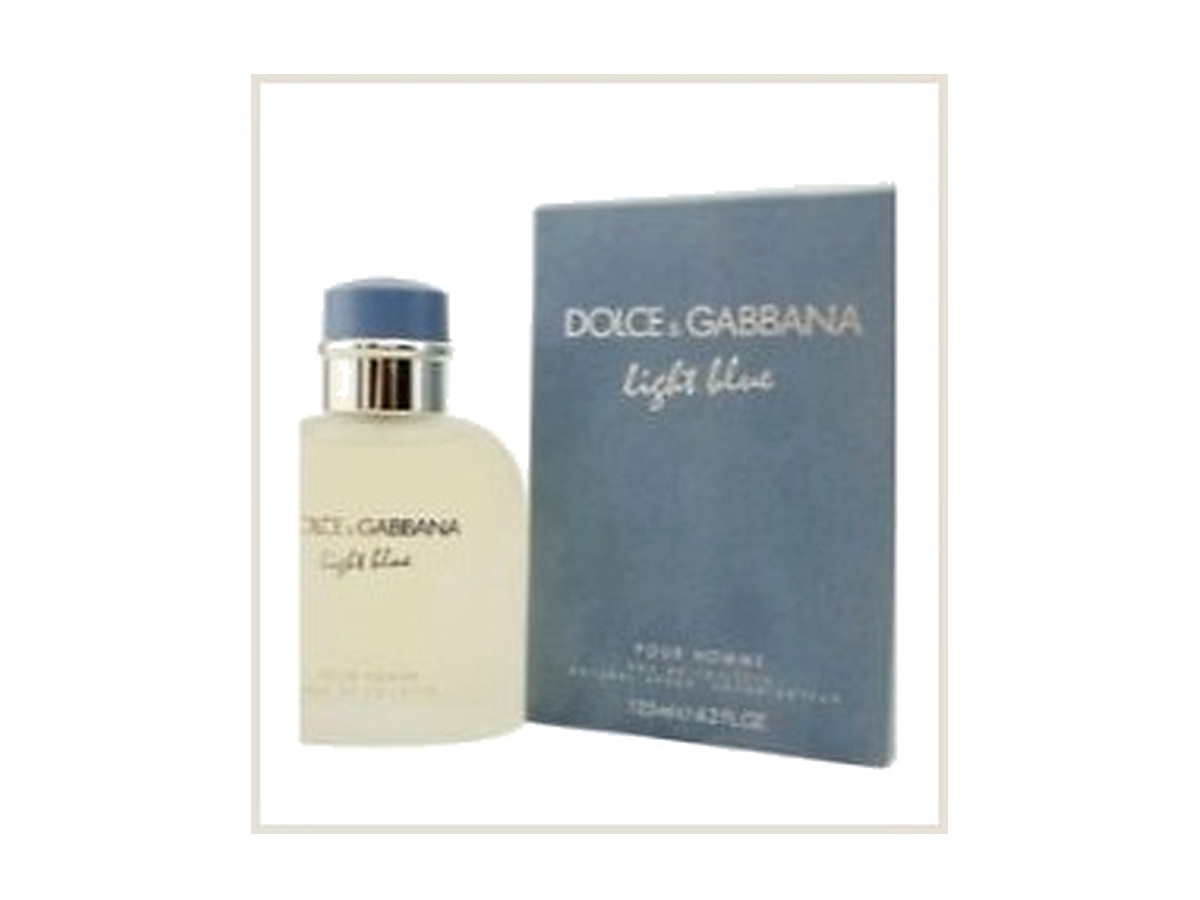
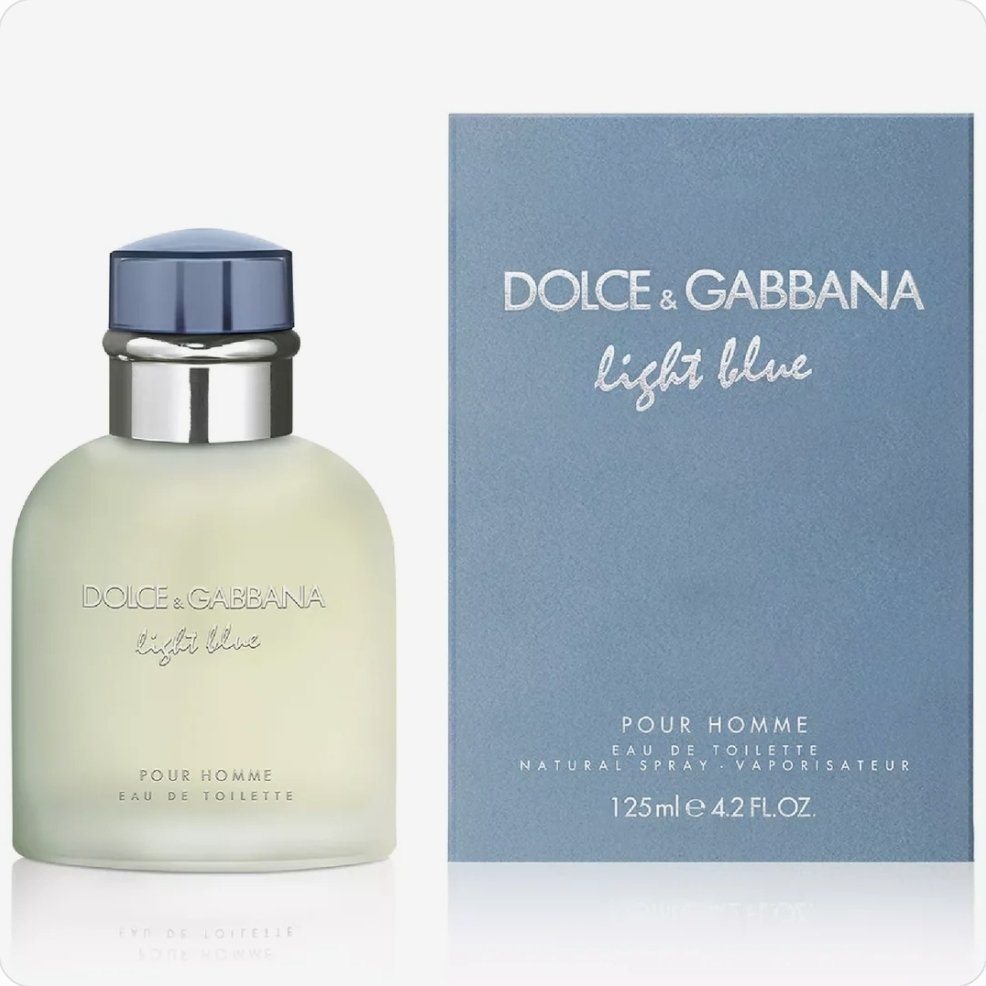
Replace D&G Light Blue Pour Homme photos with Boss's new shots

diff --git a/index.html b/index.html
@@ -709,7 +709,7 @@
         { name:'Lattafa Asad Bourbon Perfume for Unisex', niche:'Lattafa · Unisex · 3.4 oz EDP', direction:'Plum, spice and smooth vanilla woods', description:'Rich plum and warm spice open into a smooth blend of cacao-toned sweetness, vanilla and woods. Deep and inviting without feeling overly heavy.', category:'amber', images:[{src:'assets/product-lattafa-asad-bourbon.jpg', alt:'Lattafa Asad Bourbon bottle and brown box — clean packshot'}], price:34, decantPrice:9, originalPrice:40, featured:18 , paymentLink:'https://buy.stripe.com/eVq00l9eV5fSf8u8ODf7i1i'},
         { name:'Lattafa Khamrah Qahwa Perfume for Unisex', niche:'Lattafa · Unisex · 3.4 oz EDP', direction:'Coffee, cinnamon and vanilla praline', description:'Roasted coffee and warming spice enrich a sweet base of vanilla and praline. Dense, cozy and deliciously bold for cooler days and late nights.', category:'sweet', images:[{src:'assets/product-lattafa-khamrah-qahwa.jpg', alt:'Lattafa Khamrah Qahwa bottle and box — clean packshot'}], price:37, decantPrice:9, originalPrice:46, featured:19 , paymentLink:'https://buy.stripe.com/4gM00laiZ37K3pM8ODf7i1j'},
         { name:'Lattafa Yara Candy Perfume for Women', niche:'Lattafa · Women · 3.4 oz EDP', direction:'Juicy berries, vanilla and caramel', description:'A playful burst of juicy berries settles into creamy vanilla and soft caramel sweetness. Bright, cheerful and easy to wear when you want something fun.', category:'sweet', images:[{src:'assets/product-lattafa-yara-candy.jpg', alt:'Lattafa Yara Candy bottle and pink box — clean packshot'},{src:'assets/gallery-lattafa-yara-candy-1.jpg', alt:'Lattafa Yara Candy Perfume for Women — customer photo 1'},{src:'assets/gallery-lattafa-yara-candy-2.jpg', alt:'Lattafa Yara Candy Perfume for Women — customer photo 2'},{src:'assets/gallery-lattafa-yara-candy-3.jpg', alt:'Lattafa Yara Candy Perfume for Women — customer photo 3'}], price:29, decantPrice:7, originalPrice:34, featured:20 , paymentLink:'https://buy.stripe.com/cNi7sN62JcIkgcyc0Pf7i1k'},
-        { name:'Dolce & Gabbana Light Blue Cologne for Men', niche:'Dolce & Gabbana · Men · 4.2 oz EDT', direction:'Crisp citrus, aromatic herbs and clean woods', description:'A bright Mediterranean-style blend of citrus and fresh aromatics settles into a clean, lightly woody base. Easygoing and refreshing for warm days.', category:'fresh', images:[{src:'assets/product-dolce-gabbana-light-blue.jpg', alt:'Dolce & Gabbana Light Blue bottle and box — clean packshot'}], price:68, decantPrice:17, originalPrice:80, featured:21 , paymentLink:'https://buy.stripe.com/aFa7sNaiZeQs5xU6Gvf7i0M'},
+        { name:'Dolce & Gabbana Light Blue Cologne for Men', niche:'Dolce & Gabbana · Men · 4.2 oz EDT', direction:'Crisp citrus, aromatic herbs and clean woods', description:'A bright Mediterranean-style blend of citrus and fresh aromatics settles into a clean, lightly woody base. Easygoing and refreshing for warm days.', category:'fresh', images:[{src:'assets/product-dolce-gabbana-light-blue.jpg', alt:'Dolce & Gabbana Light Blue Pour Homme bottle and box on a clean white background'},{src:'assets/product-dolce-gabbana-light-blue-2.jpg', alt:'Dolce & Gabbana Light Blue Pour Homme bottle on a clean white background'}], price:68, decantPrice:17, originalPrice:80, featured:21 , paymentLink:'https://buy.stripe.com/aFa7sNaiZeQs5xU6Gvf7i0M'},
         { name:'Rasasi Hawas Ice Cologne for Men', niche:'Rasasi · Men · 3.38 oz EDP', direction:'Icy citrus, fruit and amber woods', description:'Cool citrus and juicy fruit create an energetic opening, followed by aromatic warmth and smooth amber woods. Fresh, modern and made to project.', category:'fresh', images:[{src:'assets/product-rasasi-hawas-ice.jpg', alt:'Rasasi Hawas Ice blue bottle and box on a clean white background'},{src:'assets/product-rasasi-hawas-ice-2.jpg', alt:'Rasasi Hawas Ice blue bottle on a clean white background'},{src:'assets/product-rasasi-hawas-ice-3.jpg', alt:'Rasasi Hawas Ice bottle with fragrance notes breakdown graphic'}], price:55, decantPrice:14, originalPrice:68, featured:22 , paymentLink:'https://buy.stripe.com/4gMfZjdvb7o08K68ODf7i13'},
         { name:'Yves Saint Laurent Myslf Cologne for Men', niche:'Yves Saint Laurent · Men · 3.4 oz EDP', direction:'Bright citrus, orange blossom and woods', description:'Sparkling citrus meets a clean orange-blossom heart and a warm woody finish. Polished and versatile, with a contemporary dressed-up feel.', category:'fresh', images:[{src:'assets/product-ysl-myslf.jpg', alt:'Yves Saint Laurent Myslf black bottle and box — clean packshot'},{src:'assets/gallery-ysl-myslf-1.jpg', alt:'Yves Saint Laurent Myslf Cologne for Men — customer photo 1'},{src:'assets/gallery-ysl-myslf-2.jpg', alt:'Yves Saint Laurent Myslf Cologne for Men — customer photo 2'},{src:'assets/gallery-ysl-myslf-3.jpg', alt:'Yves Saint Laurent Myslf Cologne for Men — customer photo 3'}], price:125, decantPrice:31, originalPrice:145, featured:23 , paymentLink:'https://buy.stripe.com/fZu7sNfDj8s49Oa3ujf7i0R'},
         { name:'Versace Eros Flame Cologne for Men', niche:'Versace · Men · 3.4 oz EDP', direction:'Spiced citrus, herbs and vanilla woods', description:'Vibrant citrus and pepper lead into aromatic herbs, warm woods and vanilla. Fiery and confident, with a bold evening-ready trail.', category:'amber', images:[{src:'assets/product-versace-eros-flame.jpg', alt:'Versace Eros Flame red bottle and box — clean packshot'},{src:'assets/gallery-versace-eros-flame-1.jpg', alt:'Versace Eros Flame Cologne for Men — customer photo 1'},{src:'assets/gallery-versace-eros-flame-2.jpg', alt:'Versace Eros Flame Cologne for Men — customer photo 2'},{src:'assets/gallery-versace-eros-flame-3.jpg', alt:'Versace Eros Flame Cologne for Men — customer photo 3'},{src:'assets/gallery-versace-eros-flame-4.jpg', alt:'Versace Eros Flame Cologne for Men — customer photo 4'}], price:79, decantPrice:20, originalPrice:95, featured:24 , paymentLink:'https://buy.stripe.com/28E5kFbn30ZC3pMc0Pf7i0S'},
